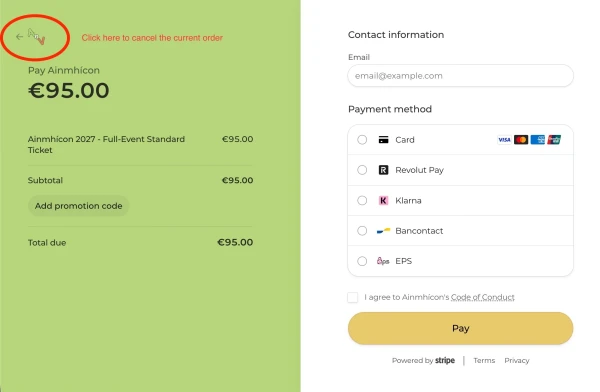
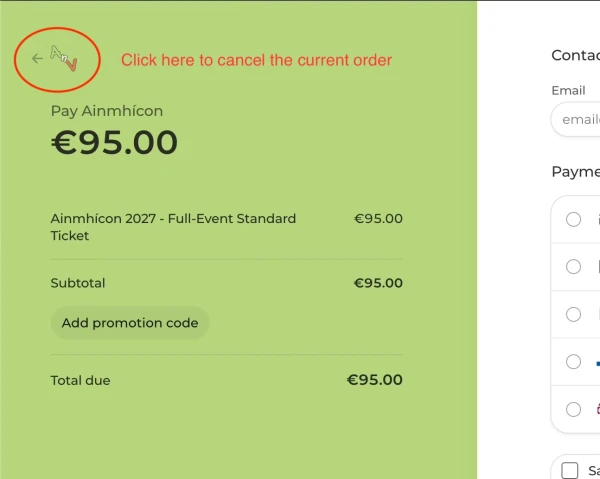
a bit more cleanup

diff --git a/app/dashboard/view.tsx b/app/dashboard/view.tsx
@@ -175,14 +175,14 @@ export function DashboardView({ user, attendee, registration, logout, achievemen
             </h2>
             {!registration && <p className='my-2'>Thanks for signing up, this is your user dashboard. From here you can register for our upcoming conventions</p>}
             {registration && <>
-                <div className="divider"/>
+                <div className="divider" />
                 <p className='text-center font-bold text-md'>{registration.ticket_type} <br /> {getAttendingDate(registration.ticket_type)}</p>
                 <p className='mt-2 my-0 text-center'>Registration Number</p>
                 <h3 className='text-2xl my-0 font-bold text-center'>{registration.badge_id}</h3>
-                <div className="divider"/>
+                <div className="divider" />
                 <p>When you arrive at the convention please report to ConOps! You will need:</p>
                 <ul className="p-2">
-                    <li  className="before:content-['✓'] before:mr-2">
+                    <li className="before:content-['✓'] before:mr-2">
                         Your registration number
                     </li>
                     <li className="before:content-['✓'] before:mr-2">
@@ -194,7 +194,7 @@ export function DashboardView({ user, attendee, registration, logout, achievemen
 
             <Link href='/user-details' className='btn mt-8 rounded-md btn-secondary'>Update my details</Link>
             {registration && <Link href='/hotel-booking' className='btn btn-secondary rounded-md'>Booking the Venue Hotel</Link>}
-            {registration && registration.payment_status === 'paid' && <Link href='/leaf-designer' className='btn rounded-md btn-secondary'>Design a Leaf!</Link>}
+            {registration && registration.payment_status === 'paid' && <Link href='/leaf-designer' className='btn rounded-md btn-secondary border-neutral border-2 mt-8'>Design a Leaf!</Link>}
 
             {regFlowStart}
             {showAgeError && <p className='mt-8 font-bold'>Attendees must be at least {minimumConventionAge} years old on the first day of the convention. Our records indicate you do not meet this requirement, so registration is not allowed. Please verify your Date of Birth on the <a href='/user-details' className='underline'>user details page</a></p>}

diff --git a/app/leaf-designer/page.tsx b/app/leaf-designer/page.tsx
@@ -17,10 +17,12 @@ export default function LeafDesigner() {
         <div className="w-full md:w-[80%] m-auto mt-16 p-12 bg-base-200 rounded-3xl">
             <div className={`flex flex-col gap-4 ${started && 'hidden'}`}>
                 <h1 className="font-[family-name:var(--font-sora)] text-xl">Design a Leaf!</h1>
-                <p>Help us spread our roots and grow! As a thank you for registering and showing your support we'd like to invite you to
-                    design your very own leaf which will appear on the website and in various places around the convention.
+                <p>
+                    Help us spread our roots and grow! As a thank you for registering and showing your support we'd like to invite you to
+                    design your very own leaf which will appear in various places around the convention.
                     <br /><br />
-                    Please <b>keep it SFW!</b> Leaves are associated with your account and will be removed if innappropriate.</p>
+                    Please <b>keep it SFW!</b> Leaves are associated with your account and will be removed if innappropriate. Craic & Ceòl are watching!
+                </p>
                 <button className='btn btn-secondary w-[50%] m-auto mt-8 rounded-lg' onClick={() => setStarted(true)}>Get started</button>
             </div>
             {started && fetched && <DrawingPad drawing={savedDrawing} onSave={(d) => authState.updateLeaf(d).catch(e => setError("Sorry, something went wrong when we tried to save your drawing."))}/>}

diff --git a/app/components/drawing/drawing-pad.tsx b/app/components/drawing/drawing-pad.tsx
@@ -185,7 +185,7 @@ export function DrawingPad({ drawing, onSave }: Props) {
         }
         const objSize = getObjectSizeKB(compressed)
         console.log(`${objSize}kb`)
-        if (objSize > 1024) {
+        if (objSize > 2048) {
             setShowSizeError(true)
         } else {
             onSave(compressed)
@@ -358,7 +358,7 @@ export function DrawingPad({ drawing, onSave }: Props) {
                 </svg>
                 <div>
                     <h3 className="font-bold">Too Complicated!</h3>
-                    <div className="text-xs">Sorry, your leaf is a bit complicated. Try erasing some stuff and saving again</div>
+                    <div className="text-xs">Sorry, your leaf is a bit complicated. Use the undo button to remove some stuff or click the trash button to start over</div>
                 </div>
                 <button className="btn btn-sm btn-secondary bg-white text-error border-0 rounded-3xl" onClick={() => setShowSizeError(false)}>Okay</button>
             </div>
